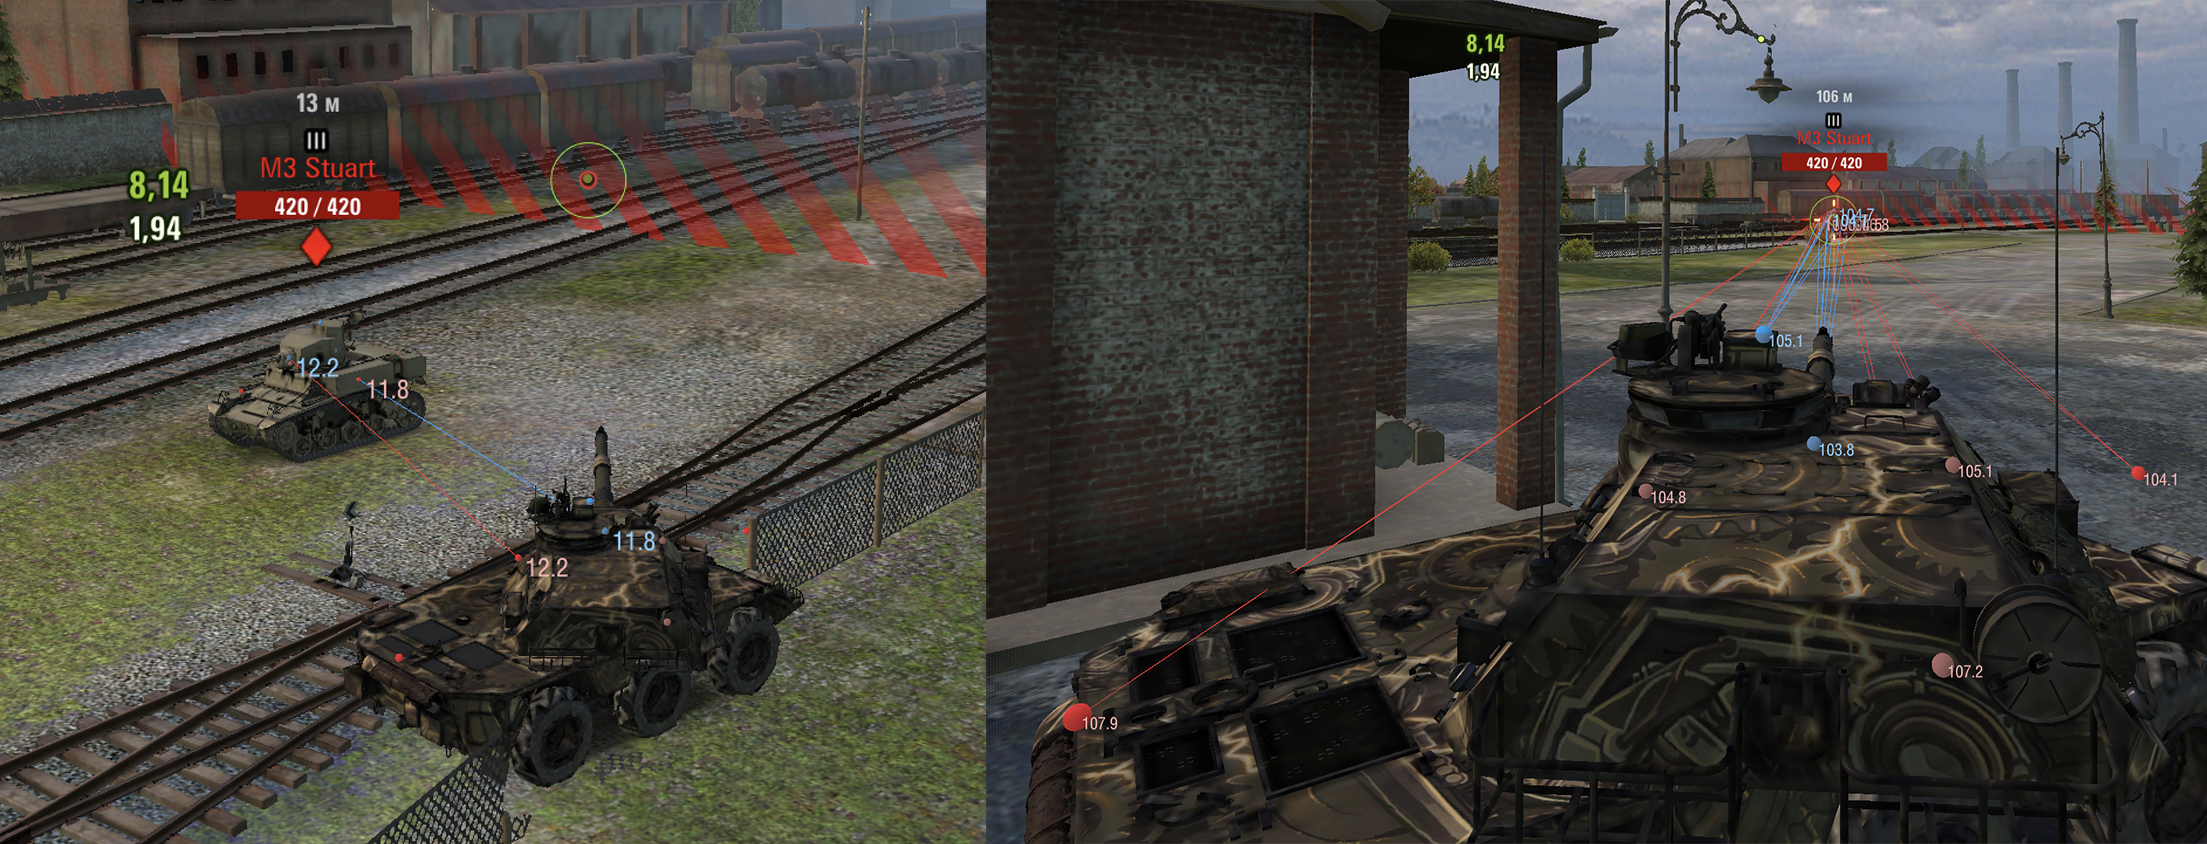
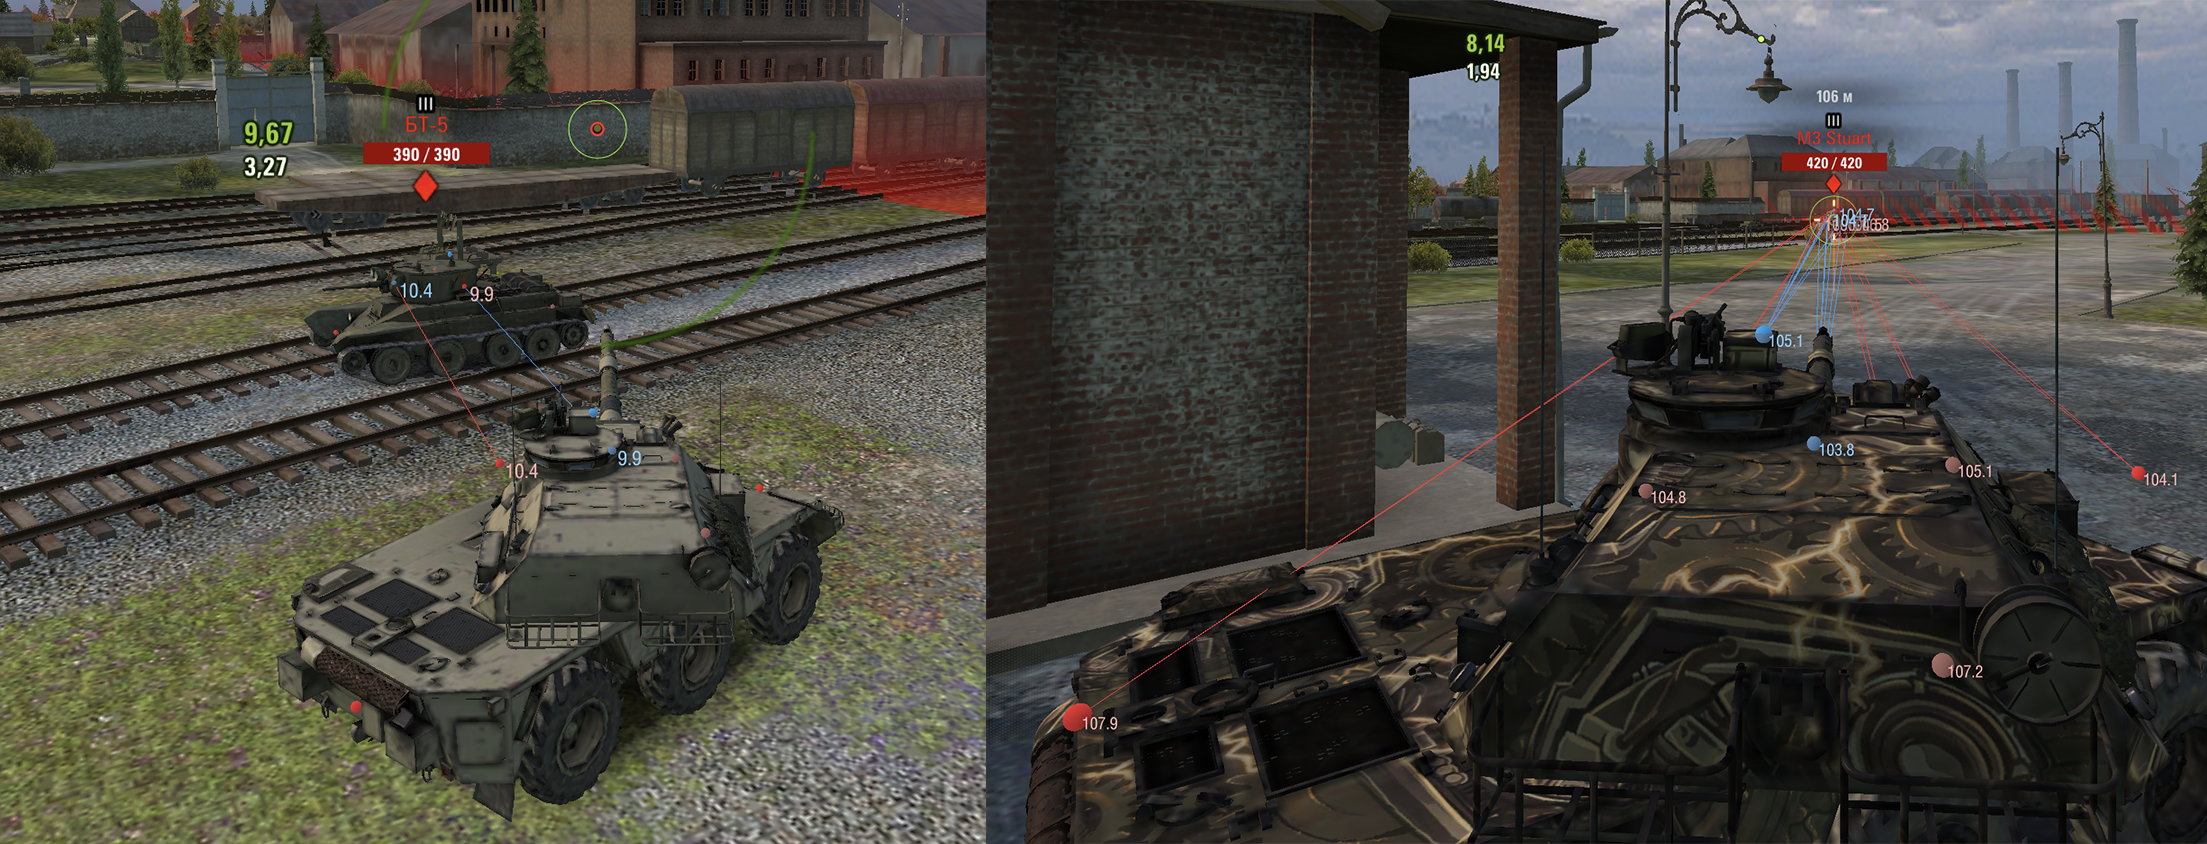
update readme

diff --git a/res/scripts/client/gui/mods/wotstatDebugUtils/i18n.py b/res/scripts/client/gui/mods/wotstatDebugUtils/i18n.py
@@ -44,7 +44,7 @@ EN = {
   'spottingUtils.visibilityCheckpoints': 'Visibility checkpoints',
   'spottingUtils.viewRangePorts': 'View range ports',
   'spottingUtils.showBBox': 'Show BBox',
-  'spottingUtils.bboxAlign': '  BBox align',
+  'spottingUtils.bboxAlign': '  Guide lines',
   'spottingUtils.rays': 'Rays',
   'spottingUtils.ownSpotRays': 'OWN spot rays',
   'spottingUtils.ownMaskRays': 'OWN mask rays',
@@ -109,7 +109,7 @@ RU = {
   'spottingUtils.visibilityCheckpoints': 'Габартиные точки',
   'spottingUtils.viewRangePorts': 'Обзорные точки',
   'spottingUtils.showBBox': 'Отображать BBox',
-  'spottingUtils.bboxAlign': '  Привязка центров',
+  'spottingUtils.bboxAlign': '  Направляющие линии',
   'spottingUtils.rays': 'Лучи',
   'spottingUtils.ownSpotRays': 'Засвета СВОЕГО танка',
   'spottingUtils.ownMaskRays': 'Маскировки СВОЕГО танка',

diff --git a/README.md b/README.md
@@ -3,7 +3,7 @@
 # WotStat Debug Utils
 
 > [!CAUTION]
-> Некоторые функции мода могут давать неспортивное преимущество в бою. Поэтому мод будет работать только в `Реплеях`, `Тренировочных боях`, `Топографии` и `Ангаре`. В соревновательных режимах (Случайные, Клановые, Командные бои) мод не будет работать.
+> Для избежания использования мода в неспортивных целях, функционал доступен только в `Реплеях`, `Тренировочных боях`, `Топографии` и `Ангаре`. В соревновательных режимах (Случайные, Клановые, Командные бои) мод не будет работать.
 
 ## Установка
 1. Скачайте файл мода [`wotstat.debug-utils_1.0.0.mtmod`](https://github.com/wotstat/wotstat-debug-utils/releases/latest) и служебную библиотеку [`net.openwg.gameface_1.1.6.mtmod`](https://gitlab.com/openwg/wot.gameface/-/releases).
@@ -87,8 +87,20 @@
 ### Засвет
 - `Обзорные точки` – отображает обзорные точки танков, которые используются для засвета. Они также совпадают с габаритными и перекрывают их.
 - `Габаритные точки` – отображает габаритные точки танков, которые используются для засвета.
-- `Отображать BBox` – отображает ограничивающий бокс который используется для габаритных точек (первые 4 точки находятся на центрах боковых граней, а 5 точка находится на верхней грани по центру танка).
-  - `Привязка центров` – отображает диагональные линии на гранях, пересечение которых является центром грани, на котором находится габаритная точка.
+- `Отображать BBox` – отображает ограничивающий бокс который используется для габаритных точек.
+  - `Направляющие линии` – отображает направляющие линии по которым стоятся габаритные точки.
+
+> [!NOTE]
+> **Пять габаритных:**
+> 1. В оси поднятия орудия при нулевом повороте башни (точка крепления не всегда в маске)
+> 2. Центр передней грани BBox'а корпуса
+> 3. Центр задней грани BBox'а корпуса
+> 4. Центр левой грани BBox'а корпуса и поднятая по высоте до первой точки
+> 5. Центр правой грани BBox'а корпуса и поднятая по высоте до первой точки
+> 
+> **Две обзорно габаритных:**
+> 1. В PivotPoint'e танка, поднятая на высоту BBox'a вокруг башни и корпуса (без учёта пушки, даже там где башня это пушка)
+> 2. Там же где и первая габаритная, но с учётом вращения башни. (**динамическая**)
 
 ![Пример габаритных точек](.github/assets/spot-points.png)
 

diff --git a/README_EN.md b/README_EN.md
@@ -83,8 +83,21 @@ The mod window is divided into several sections.
 ### Spotting utils
 - `View range ports` — displays the view range points of tanks used for spotting. They coincide with and overlap the visibility checkpoints.
 - `Visibility checkpoints` — displays the tank checkpoints used for spotting.
-- `Show BBox` — displays the bounding box used for the visibility checkpoints (the first 4 points are at the centers of the side faces, and the 5th point is at the center of the top face of the tank).
-  - `BBox align` — displays diagonal lines on the faces; their intersection marks the face center where the visibility checkpoint is located.
+- `Show BBox` — displays the bounding box used for the vehicle’s bounding points.
+  - `Guide lines` — displays the guide lines along which the bounding points are placed.
+
+> [!NOTE]
+> **Five bounding points:**
+> 1. On the gun elevation axis with the turret at zero rotation (the mounting point is not always inside the mantlet)
+> 2. The center of the front face of the hull BBox
+> 3. The center of the rear face of the hull BBox
+> 4. The center of the left face of the hull BBox, raised to the height of the first point
+> 5. The center of the right face of the hull BBox, raised to the height of the first point
+>
+> **Two view/bounding points:**
+> 1. At the tank’s PivotPoint, raised to the height of the BBox around the turret and hull (ignoring the gun, even on vehicles where the turret is effectively the gun)
+> 2. At the same location as the first bounding point, but taking turret rotation into account. (**dynamic**)
+
 
 ![Visibility checkpoints example](.github/assets/spot-points.png)
 
